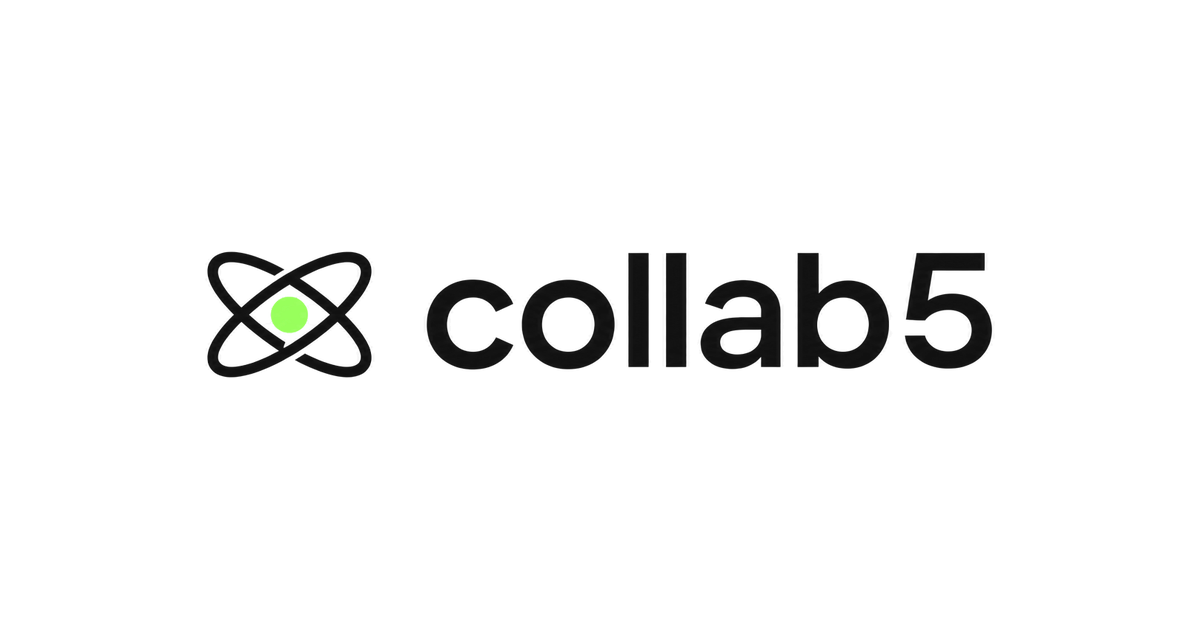
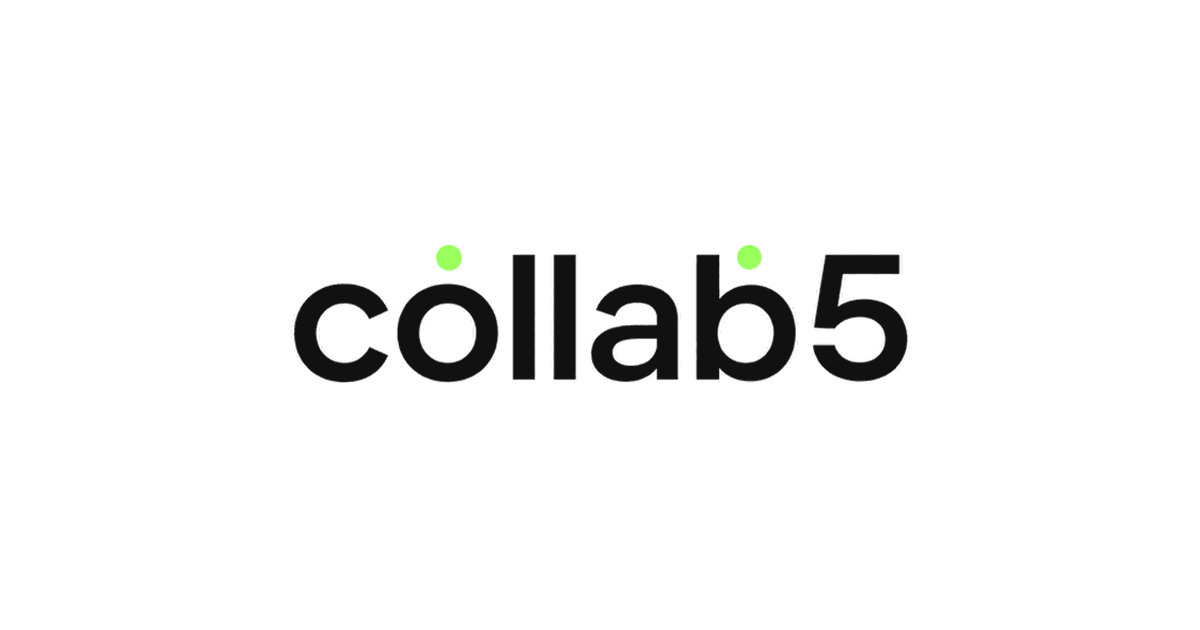
링크 미리보기 썸네일 — 홈 헤더와 같은 워드마크로 (09-04, 대표 지시)
카톡에 홈 링크를 붙이면 옛 아톰 로고(마크+글자)가 떴다. 사이트 헤더는
워드마크(초록 점 두 개)라 **같은 서비스인데 카드와 화면의 로고가 달랐다.**
대표가 카톡 실물을 보고 발견.

- public/og-image.png = public/logo-wordmark.png(헤더와 «같은 파일») 620px 중앙
  → 후보 560·620·700 중 대표가 620 선택
- assets/build-og.py 신설 — 재생성 스크립트
  🚨581→620은 6.7% 확대뿐인데 먹색이 #111111 → #131313으로 굳었다.
    눈엔 안 보이고 스포이드에는 찍힌다 → snap()으로 되돌린다(build-icons.py와 같은 처방)
- assets/og-image.svg 삭제 — 「소스」라고 적혀 있었지만 **옛 아톰을 손으로 그린 것**이고
  실제 PNG와 다른 그림이었다. 다음 사람이 그걸 고치면 헛수고가 된다
- OG_IMAGE ?v=3 → ?v=4 (안 올리면 카톡이 옛 그림을 계속 내보낸다)
- 카톡 캐시 초기화 주소 교정: /tool/clear/og(404) → /tool/debugger
  ⭐남의 서비스 주소는 조용히 죽는다 — 안내하기 «전»에 한 번 열어 볼 것

Changed region(s): [[0.1542, 0.3921, 0.8325, 0.6032]]

diff --git a/src/app/layout.tsx b/src/app/layout.tsx
@@ -33,9 +33,11 @@ export const metadata: Metadata = {
   alternates: { canonical: "/" },
   // 🆕링크 미리보기 카드(08-07) — 소개서(/m)는 08-02에 넣었는데 **홈은 빠져 있었다.**
   //   영업 DM에 홈 링크를 붙이면 글자만 뜨고 카드가 안 펼쳐졌다는 뜻이다.
-  //   이미지 = 디자인팀 제작(`public/og-image.png`, 1200×630) — 로고만, 장식·슬로건 없음(대표 지정 구성).
-  //   08-16 대표 지정 새 로고로 다시 구웠다. **주소는 `OG_IMAGE`(=`?v=` 붙은 값)를 쓴다** —
-  //   카톡·페북은 이미지를 URL 단위로 캐시해서 파일만 갈면 옛 그림이 계속 나간다. 자세한 건 lib/site.ts.
+  //   이미지 = `public/og-image.png`(1200×630) — 로고만, 장식·슬로건 없음(대표 지정 구성).
+  //   🆕09-04에 **홈 헤더와 같은 워드마크**로 갈았다 — 그전엔 옛 아톰 로고가 나가서
+  //   카톡 카드의 로고가 사이트 로고와 달랐다(대표 발견). 재생성 = `python3 assets/build-og.py`.
+  //   **주소는 `OG_IMAGE`(=`?v=` 붙은 값)를 쓴다** — 카톡·페북은 이미지를 URL 단위로
+  //   캐시해서 파일만 갈면 옛 그림이 계속 나간다. 자세한 건 lib/site.ts.
   openGraph: {
     type: "website",
     siteName: "collab5",

diff --git a/src/lib/site.ts b/src/lib/site.ts
@@ -11,6 +11,9 @@ export const SITE_URL = "https://collab5.co.kr";
  *
  *  🪤 카톡은 이미지뿐 아니라 **페이지 스크랩 결과도** 따로 캐시한다. v를 올려도 이미 퍼진 링크는
  *     그대로일 수 있다 — 급하면 카카오 개발자 도구에서 주소별로 초기화해야 한다
- *     (https://developers.kakao.com/tool/clear/og).
+ *     (https://developers.kakao.com/tool/debugger — 「카카오톡 URL 메타정보 관리」).
+ *     🚨09-04에 대표가 눌렀더니 404였다. 옛 주소 `/tool/clear/og`는 카카오가 없앴다.
+ *     ⭐**남의 서비스 주소는 조용히 죽는다** — 문서에 박아두고 몇 달 뒤 그대로 안내하면
+ *     받는 사람이 막힌다. 안내하기 «전»에 한 번 열어 볼 것.
  */
-export const OG_IMAGE = "/og-image.png?v=3";  // v3 = 로고 초록을 키위(#98FF5C)로 교정(08-16)
+export const OG_IMAGE = "/og-image.png?v=4";  // v4 = 홈 헤더와 «같은» 워드마크로 교체(09-04). v3 = 로고 초록을 키위(#98FF5C)로 교정(08-16)

diff --git a/assets/build-og.py b/assets/build-og.py
@@ -1,0 +1,54 @@
+"""링크 미리보기 썸네일을 워드마크에서 다시 만든다.  `python3 assets/build-og.py`
+
+  public/og-image.png   1200×630  흰 바탕 + 워드마크만
+
+⚠**여기서 쓰는 그림은 홈 헤더와 «같은 파일»이다**(`public/logo-wordmark.png`).
+  09-04에 갈아 끼운 이유가 그거다 — 그 전 og는 옛 아톰 로고(마크+글자)라
+  카톡에서 홈 헤더와 다른 로고가 떴다(대표 발견).
+
+⚠크기를 620px로 잡은 이유 — 워드마크만 놓으면 마크가 없어 가로가 짧다.
+  560은 허전하고 700은 좌우 여백이 답답하다. 세 후보를 구워 대표가 620을 골랐다.
+
+🚨**줄이든 키우든 브랜드색은 밀린다.** 581→620은 6.7% 확대뿐인데도 먹색이
+  #111111 → #131313 으로 굳었다. 눈엔 안 보이고 **스포이드에는 찍힌다.**
+  → `snap()`으로 되돌린다(`build-icons.py`와 같은 처방).
+
+📌그림을 갈면 **`src/lib/site.ts`의 `OG_IMAGE` 뒤 `?v=`도 같이 올려라.**
+  카톡·페북은 이미지를 URL 단위로 캐시해서 파일만 갈면 옛 그림이 계속 나간다.
+"""
+from PIL import Image
+
+PAPER = (0xFF, 0xFF, 0xFF)
+INK = (0x11, 0x11, 0x11)
+KIWI = (0x98, 0xFF, 0x5C)
+SRC = "public/logo-wordmark.png"
+OUT = "public/og-image.png"
+W, H = 1200, 630
+MARK_W = 620        # 워드마크 가로. 대표 선택(09-04) — 후보는 560·620·700
+
+
+def snap(img, to, tol=6):
+    """1~2씩 밀린 브랜드색을 정확값으로 되돌린다.
+
+    ⚠가장자리 그라데이션은 tol 밖이라 안 건드린다(건드리면 계단이 생긴다).
+    """
+    px = img.load()
+    w, h = img.size
+    for y in range(h):
+        for x in range(w):
+            c = px[x, y]
+            if max(abs(a - b) for a, b in zip(c[:3], to)) <= tol:
+                px[x, y] = (*to, *c[3:])
+
+
+mark = Image.open(SRC).convert("RGBA")
+mark_h = round(MARK_W * mark.height / mark.width)
+mark = mark.resize((MARK_W, mark_h), Image.LANCZOS)
+
+canvas = Image.new("RGB", (W, H), PAPER)
+canvas.paste(mark, ((W - MARK_W) // 2, (H - mark_h) // 2), mark)
+snap(canvas, INK)
+snap(canvas, KIWI)
+canvas.save(OUT)
+
+print(f"{OUT} {W}×{H} · 워드마크 {MARK_W}×{mark_h} · 먹색·키위 스냅 완료")
